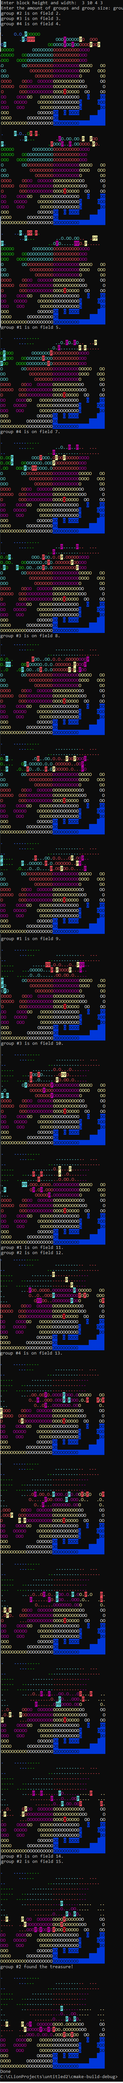
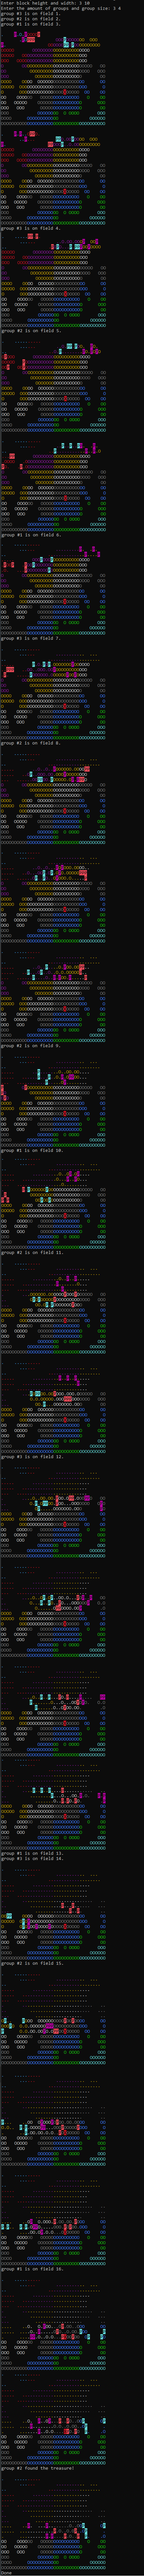
commit test1

diff --git a/task03/main.cpp b/task03/main.cpp
@@ -102,7 +102,7 @@ void print_map() {
             }
             else
             {
-                SetConsoleTextAttribute(hConsole, color(i, j) + 6);
+                SetConsoleTextAttribute(hConsole, color(i, j));
                 cout << map[i][j];
             }
         }
@@ -178,8 +178,8 @@ void find_X(int id) {
             for (int i = 0; i < free_space; ++i) {
                 int a, b;
                 do {
-                    a = x * block_h + abs(rand() % block_h);
-                    b = y * block_w + abs(rand() % block_w);
+                    a = x * block_h + (rand() % block_h);
+                    b = y * block_w + (rand() % block_w);
                     if (map[a][b] == 'X') {
                         SetConsoleTextAttribute(hConsole, sea_color);
                         cout << "group #" << id+1 << " found the treasure!" << endl;
@@ -239,6 +239,7 @@ int main() {
 
     SetConsoleTextAttribute(hConsole, sea_color);
     cout << "Done";
+    getchar();
     getchar();
     return 0;
 }
